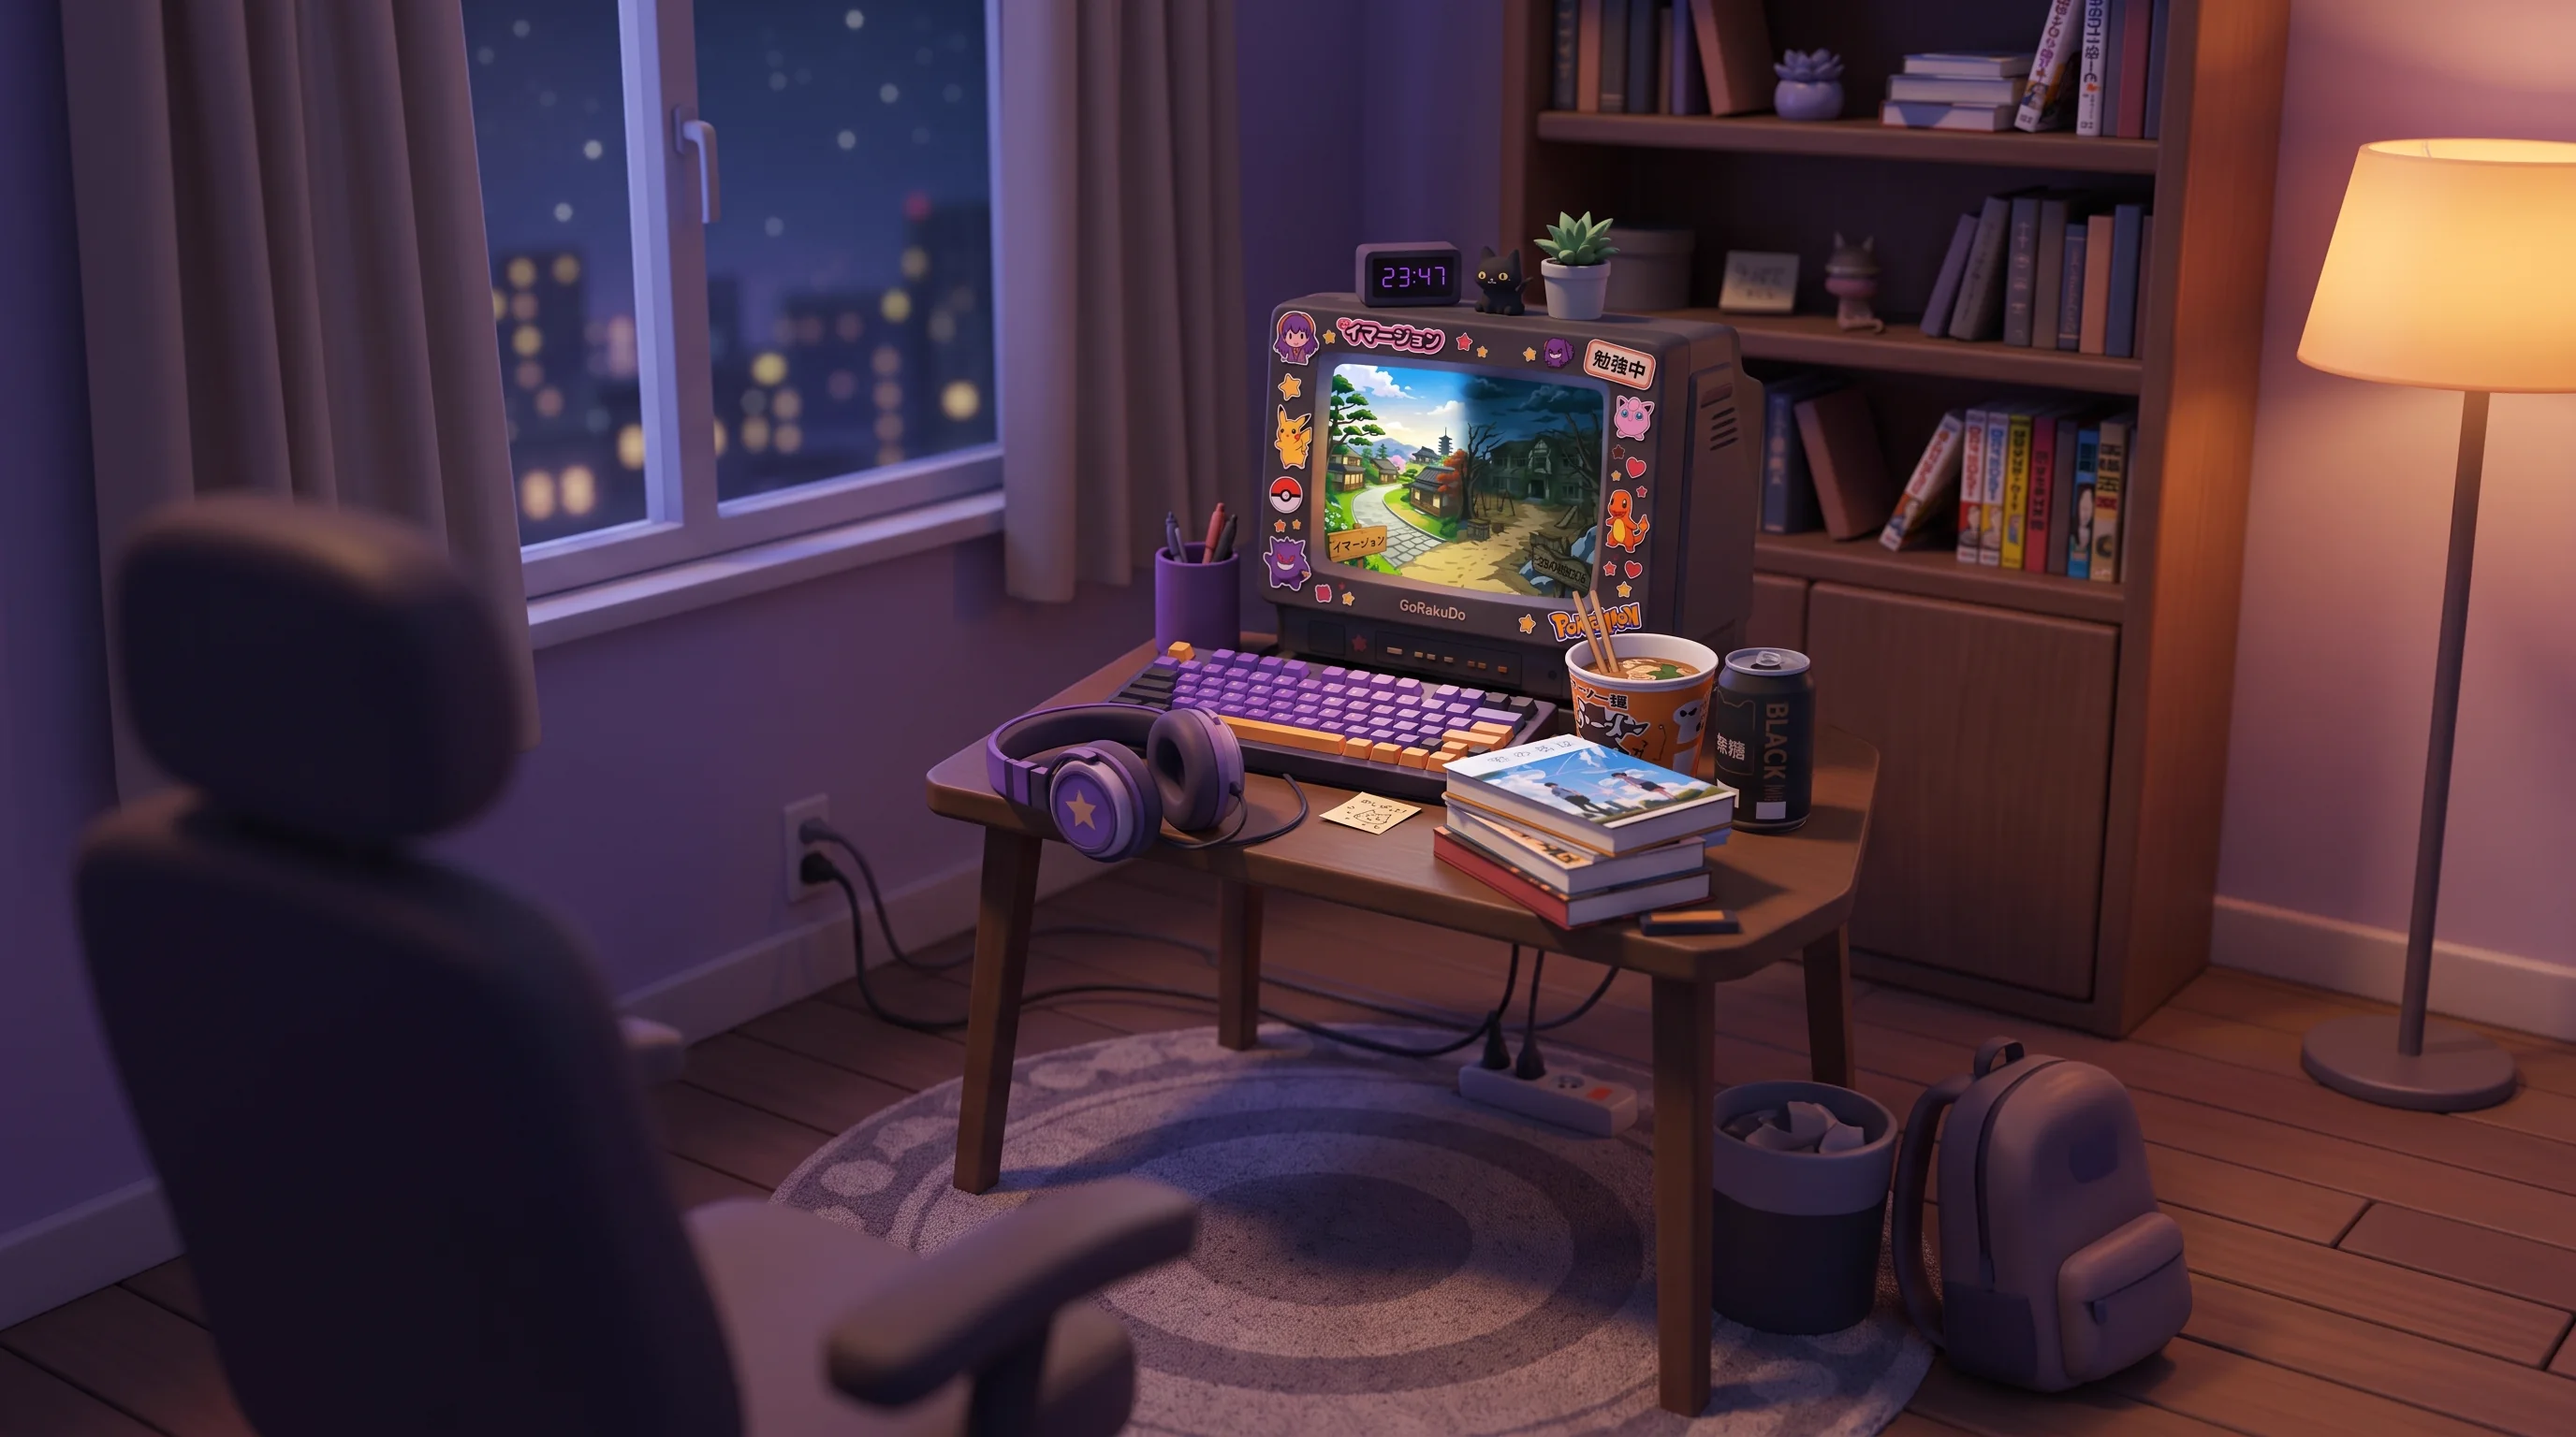
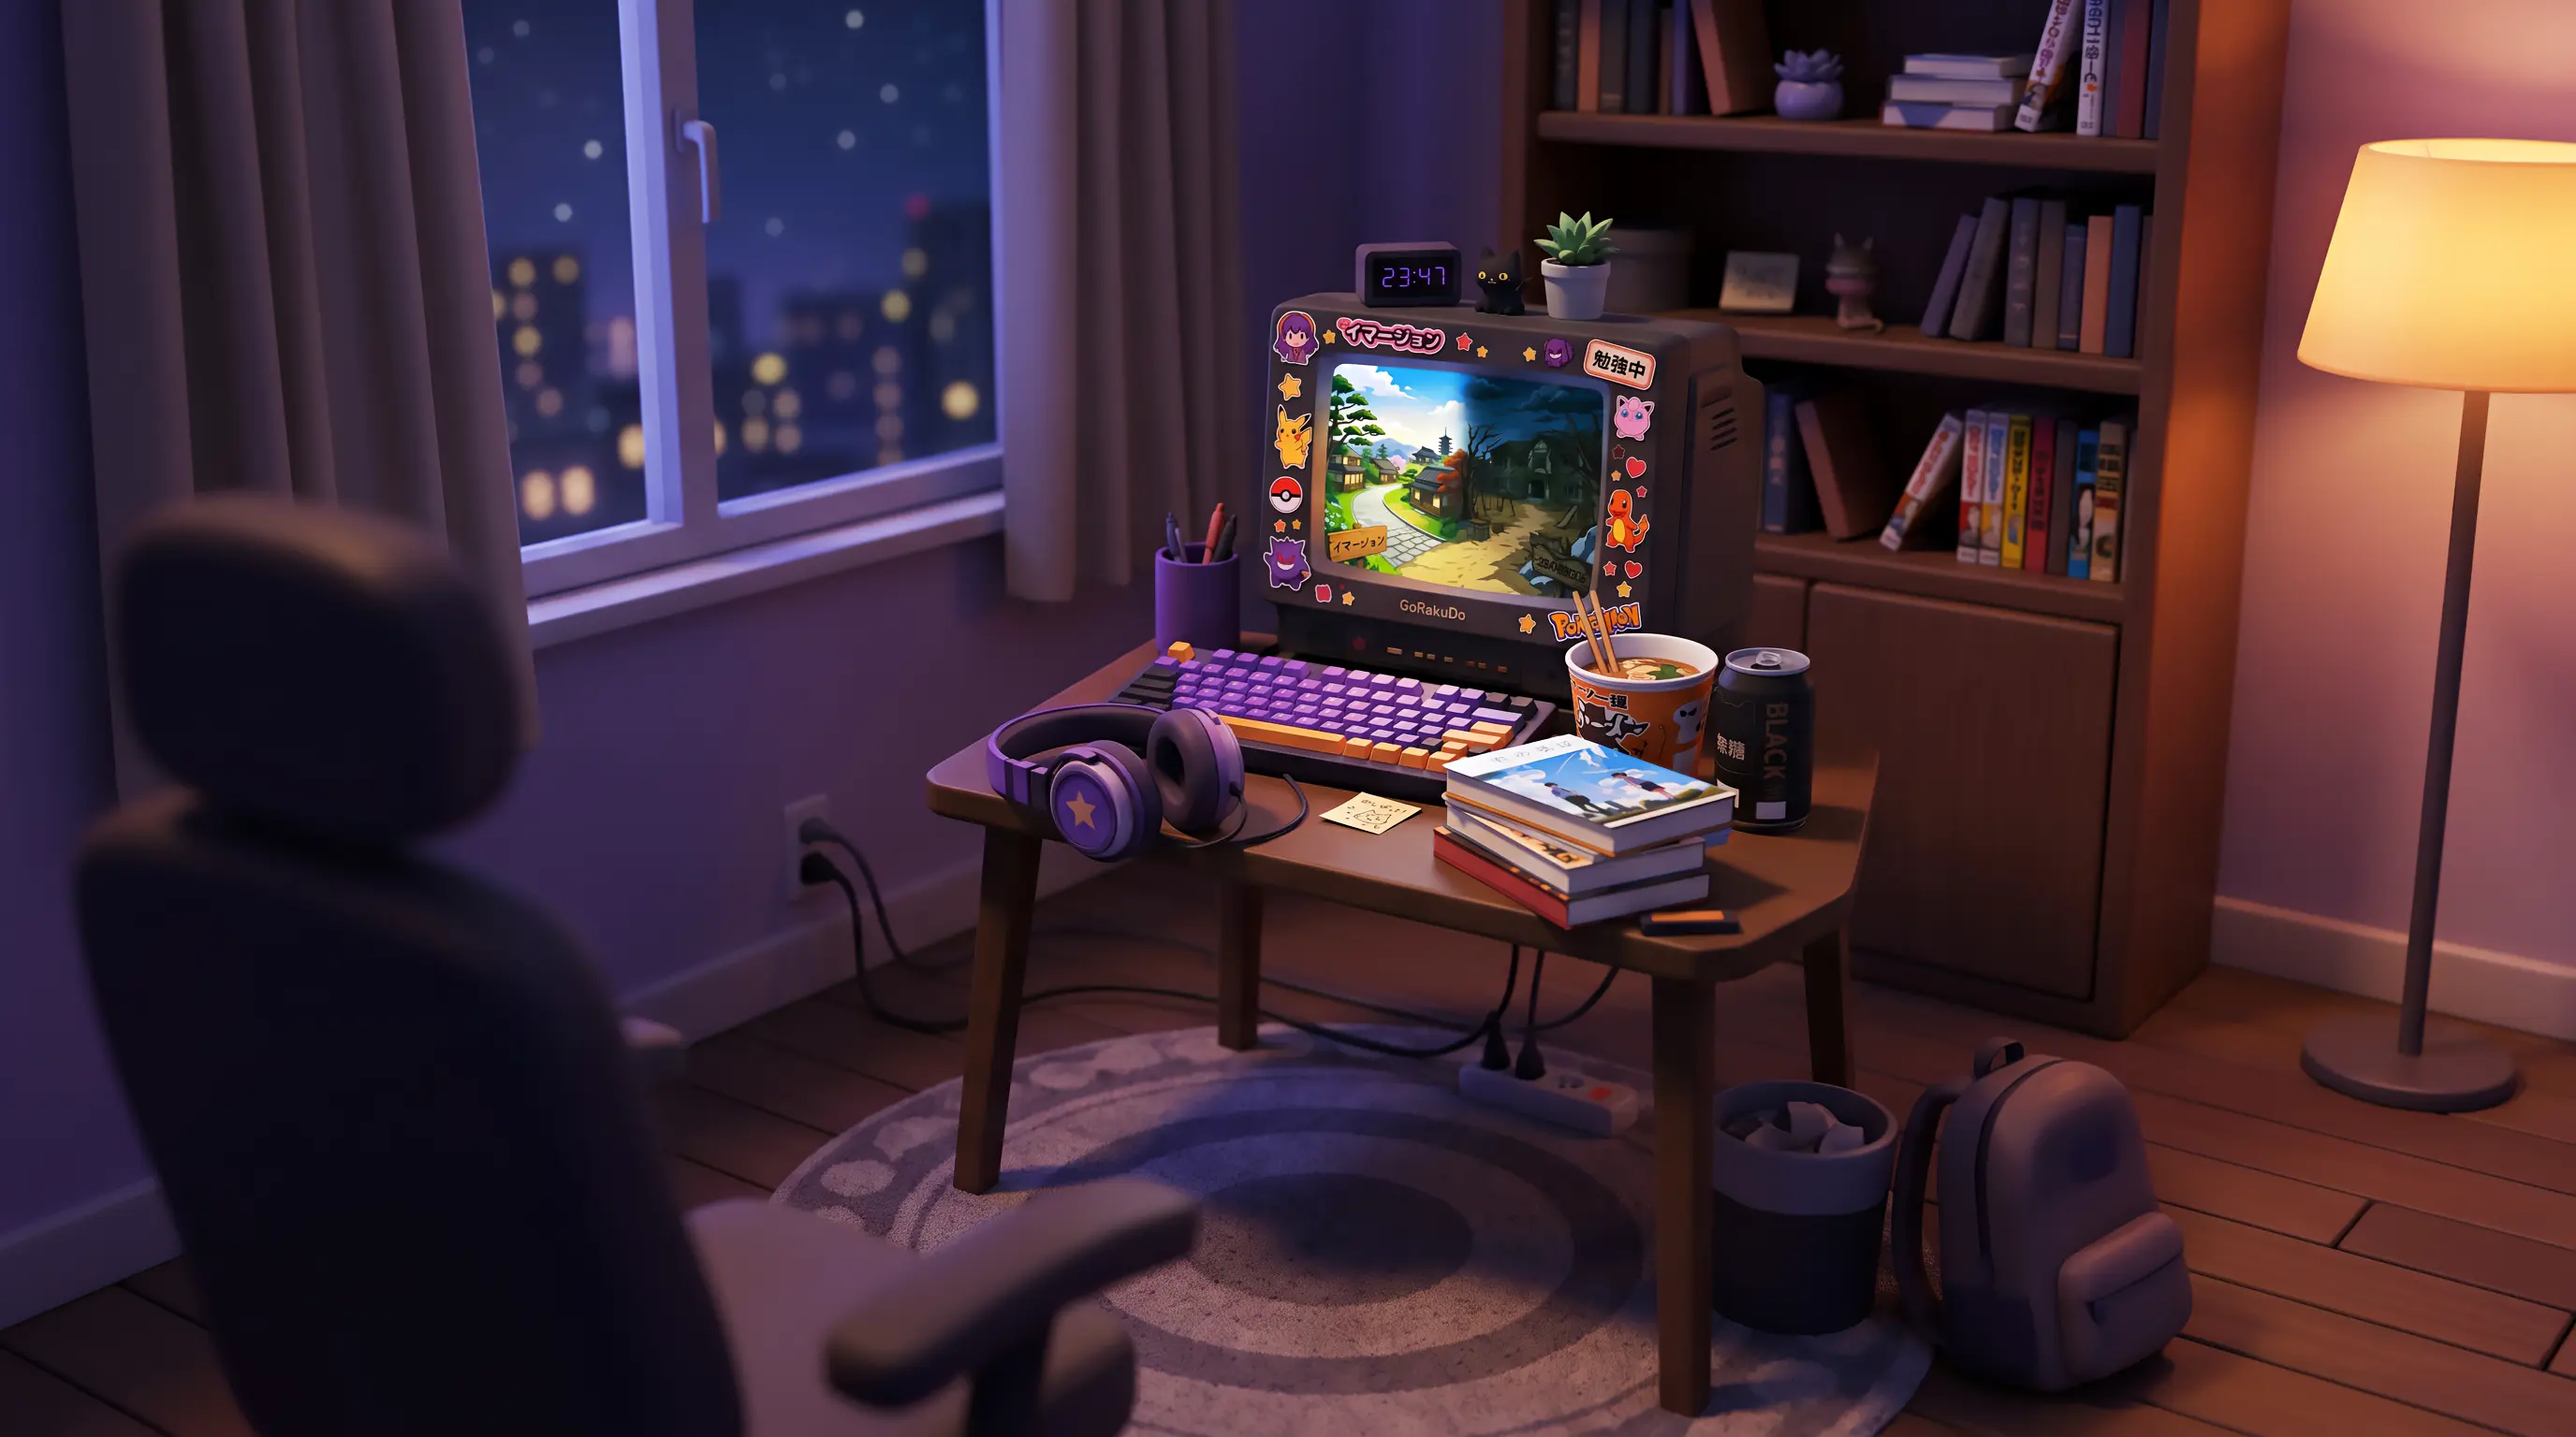
Quest prologue: VN-style background blur crossfade from line 2 + guide reveal slot

diff --git a/src/styles/pages/quest/quest.css b/src/styles/pages/quest/quest.css
@@ -53,6 +53,25 @@
   opacity: 1;
 }
 
+/* Blurred background layer (pre-blurred WebP, no CSS filter).
+ * Sits directly above the sharp layer (DOM order) and crossfades in
+ * when `.quest-scene` gains `.is-blurred` (from the 2nd line on).
+ * Stays at opacity 0 until both loaded AND the scene is blurred,
+ * so a failed blur image degrades gracefully to the sharp layer. */
+.quest-scene-bg-blur {
+  position: absolute;
+  inset: 0;
+  width: 100%;
+  height: 100%;
+  object-fit: cover;
+  opacity: 0;
+  transition: opacity 0.7s ease;
+}
+
+.is-blurred .quest-scene-bg-blur.is-loaded {
+  opacity: 1;
+}
+
 /* Vignette + bottom gradient for readability and immersion. */
 .quest-scene-veil {
   position: absolute;
@@ -124,8 +143,26 @@
   left: 50%;
   z-index: 1;
   width: clamp(140px, 32vw, 220px);
+  opacity: 1;
   pointer-events: none;
   transform: translateX(-50%);
+}
+
+/* Hidden on the 1st line; fades in with a slight rise from the 2nd line.
+ * Note: keep the base translateX(-50%) in every state so the sprite
+ * stays horizontally centered. */
+.quest-guide.is-hidden {
+  opacity: 0;
+  transform: translateX(-50%) translateY(12px);
+  transition: none;
+}
+
+@media (prefers-reduced-motion: no-preference) {
+  .quest-guide:not(.is-hidden) {
+    transition:
+      opacity 0.6s ease,
+      transform 0.6s ease;
+  }
 }
 
 .quest-guide img {
@@ -430,6 +467,8 @@
 /* Reduced motion: kill transitions too. */
 @media (prefers-reduced-motion: reduce) {
   .quest-scene-bg-image,
+  .quest-scene-bg-blur,
+  .quest-guide,
   .quest-skip,
   .quest-dialogue {
     transition: none;
